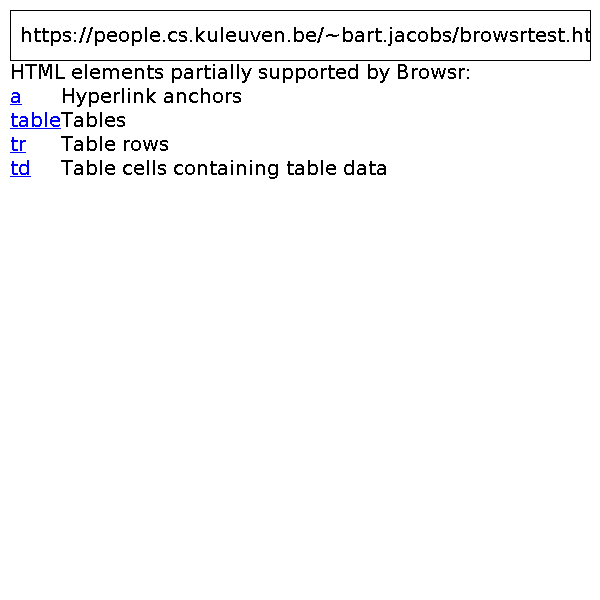
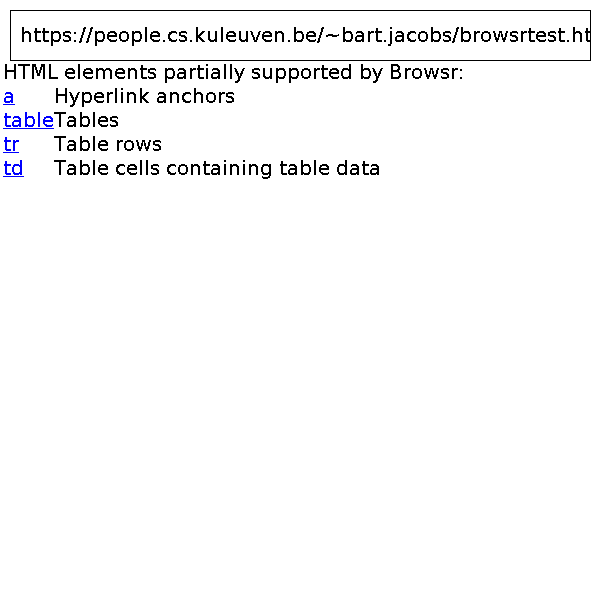
Removed extension from tableRow tableCell

Changed region(s): [[0.0, 0.09, 0.78, 0.3]]

diff --git a/src/GUIElements/TableCellGUI.java b/src/GUIElements/TableCellGUI.java
@@ -2,9 +2,13 @@ package GUIElements;
 
 import java.awt.Graphics;
 
-public class TableCellGUI extends GUIElement {
+public class TableCellGUI {
 
 	private GUIElement gui;
+	private int xPos;
+	private int yPos;
+	private int width;
+	private int height;
 	
 	/**
 	 * Constructor of the TableCellGUI class
@@ -15,14 +19,12 @@ public class TableCellGUI extends GUIElement {
      * @param h - height of this TableCell
 	 */
 	public TableCellGUI(GUIElement guiElement, int x, int y, int w, int h) {
-		super(x, y, w, h);
 		this.setGui(guiElement);
 	}
 
 	/**
 	 * Transmits the Graphics object to this.guiElement.
 	 */
-	@Override
 	public void paint(Graphics g, int xContainer, int yContainer) {
 		this.getGui().paint(g, xContainer, yContainer);
 	}
@@ -32,7 +34,6 @@ public class TableCellGUI extends GUIElement {
 	 * @param x - the x coordinate to check
 	 * @param y - the y coordinate to check
 	 */
-	@Override
 	public GUIElement getGUIAtPosition(int x, int y) {
 		return this.getGui().getGUIAtPosition(x-this.getX(), y - this.getY());
 	}
@@ -65,17 +66,119 @@ public class TableCellGUI extends GUIElement {
 	public int getGUIHeight() {
 		return this.getGui().getHeight();
 	}
-
-	@Override
-	public void handleKeyEvent(int keyCode, char keyChar, int modifiersEx) {
-	}
-
-	@Override
-	protected void handleUnselect() {
-	}
-
-	@Override
-	public void handleClick() {		
+	
+	/**
+	 * Sets the x and y position
+	 * @param x - the new value of this.x
+	 * @param y - the new value of this.x
+	 */
+	public void setPosition(int x, int y) {
+		if (x < 0 || y < 0) {
+			throw new IllegalArgumentException("The x position and y position of a GUIElement have to be positive.");
+		}
+		this.setX(x);
+		this.setY(y);
 	}
 	
+	/**
+	 * Sets the value xPos of this class.
+	 * 
+	 * @param x - new value of this.xPos
+	 */
+	public void setX(int x) {
+		if (x < 0) {
+			throw new IllegalArgumentException("The x position of a GUIElement has to be positive.");
+		}
+		this.xPos = x;
+	}
+	
+	/**
+	 * Returns the value xPos of this class
+	 * 
+	 * @return this.xPos
+	 */
+	public int getX() {
+		return this.xPos;
+	}
+	
+	/**
+	 * Returns the value of xPos + width of this class
+	 * 
+	 * @return this.xPos + this.width
+	 */
+	public int getEndX() {
+		return this.getX() + this.getWidth();
+	}	
+	
+	/**
+	 * Sets the value yPos of this class
+	 * 
+	 * @param y - new value of this.yPos
+	 */
+	public void setY(int y) {
+		if (y < 0) {
+			throw new IllegalArgumentException("The y position of a GUIElement has to be positive.");
+		}
+		this.yPos = y;
+	}
+
+	/**
+	 * Returns the value yPos of this class
+	 * 
+	 * @return this.yPos
+	 */
+	public int getY() {
+		return this.yPos;
+	}
+	
+	/**
+	 * Returns the value of xPos + height of this class
+	 * 
+	 * @return this.yPos + this.height
+	 */
+	public int getEndY() {
+		return this.getY() + this.getHeight();
+	}
+	
+	/**
+	 * Sets the value width of this class. If the new value is negative, set it to 0 instead.
+	 * 
+	 * @param width - new value of this.width
+	 */
+	public void setWidth(int width) {
+		if (width < 0) {
+			throw new IllegalArgumentException("The width of a GUIElement has to be positive.");
+		}
+		this.width = width;
+	}
+	
+	/**
+	 * Returns the value width of this class
+	 * 
+	 * @return this.width
+	 */
+	public int getWidth() {
+		return this.width;
+	}
+	
+	/**
+	 * Sets the value height of this class. If the new value is negative, set it to 0 instead.
+	 * 
+	 * @param height - new value of this.height
+	 */
+	public void setHeight(int height) {
+		if (height < 0) {
+			throw new IllegalArgumentException("The height of a GUIElement has to be positive.");
+		}
+		this.height = height;
+	}
+	
+	/**
+	 * Returns the value height of this class
+	 * 
+	 * @return this.height
+	 */
+	public int getHeight() {
+		return this.height;
+	}
 }

diff --git a/src/GUIElements/TableRowGUI.java b/src/GUIElements/TableRowGUI.java
@@ -3,8 +3,9 @@ package GUIElements;
 import java.awt.Graphics;
 import java.util.ArrayList;
 
-public class TableRowGUI extends GUIElement {
+public class TableRowGUI {
 
+	private int xPos, yPos;
 	
 	private ArrayList<TableCellGUI> tableCellList;
 	
@@ -16,15 +17,15 @@ public class TableRowGUI extends GUIElement {
 	 * @param w - width of the TableRowGUI
 	 * @param h - height of the TableRowGUI
 	 */
-	public TableRowGUI(ArrayList<TableCellGUI> cells, int x, int y, int w, int h) {
-		super(x, y, w, h);
+	public TableRowGUI(ArrayList<TableCellGUI> cells, int x, int y) {
+		this.setX(x);
+		this.setY(y);
 		this.setGuiElements(cells);
 	}
 
 	/**
 	 * Paint all the TableCellGUI while updating the relative x.
 	 */
-	@Override
 	public void paint(Graphics g, int xContainer, int yContainer) {
 		int relativeX = xContainer;
 		for(int i=0; i< this.getGuiElements().size();i++) {
@@ -47,7 +48,6 @@ public class TableRowGUI extends GUIElement {
 	 * 
 	 * @param height - new value of this.height
 	 */
-	@Override
 	public void setHeight(int height) {
 		if(this.getGuiElements()!=null) {
 			for(int i= 0; i<this.getGuiElements().size();i++) {
@@ -60,7 +60,6 @@ public class TableRowGUI extends GUIElement {
 	 * Returns the height of the tallest tableCell.
 	 * @return this.height
 	 */
-	@Override
 	public int getHeight(){
 		int maxHeight=0;
 		for(int i=0; i<this.getGuiElements().size();i++) {
@@ -76,7 +75,6 @@ public class TableRowGUI extends GUIElement {
 	 * Sum up all the widths of the row to calculate the width of the row.
 	 * @return this.width
 	 */
-	@Override
 	public int getWidth(){
 		int totalWidth=0;
 		for(int i=0; i<this.getGuiElements().size();i++) {
@@ -101,7 +99,6 @@ public class TableRowGUI extends GUIElement {
 	/**
 	 * Returns the GUI if the given position is between its bounds
 	 */
-	@Override
 	public GUIElement getGUIAtPosition(int x, int y) {
 		for(int i=0; i<this.getGuiElements().size();i++) {
 			GUIElement e =this.getGuiElements().get(i).getGUIAtPosition(x-this.getX(), y-this.getY());
@@ -112,6 +109,19 @@ public class TableRowGUI extends GUIElement {
 		return null;
 	}
 
+	/**
+	 * Sets the x and y position
+	 * @param x - the new value of this.x
+	 * @param y - the new value of this.x
+	 */
+	public void setPosition(int x, int y) {
+		if (x < 0 || y < 0) {
+			throw new IllegalArgumentException("The x position and y position of a GUIElement have to be positive.");
+		}
+		this.setX(x);
+		this.setY(y);
+	}
+	
 	/**
 	 * Returns the list of TableCells
 	 * @return this.tableCellList
@@ -131,15 +141,46 @@ public class TableRowGUI extends GUIElement {
 		this.tableCellList = cells;
 	}
 	
-	@Override
-	public void handleClick() {
+	/**
+	 * Sets the value xPos of this class.
+	 * 
+	 * @param x - new value of this.xPos
+	 */
+	public void setX(int x) {
+		if (x < 0) {
+			throw new IllegalArgumentException("The x position of a GUIElement has to be positive.");
+		}
+		this.xPos = x;
 	}
 	
-	@Override
-	public void handleKeyEvent(int keyCode, char keyChar, int modifier) {
+	/**
+	 * Returns the value xPos of this class
+	 * 
+	 * @return this.xPos
+	 */
+	public int getX() {
+		return this.xPos;
 	}
 	
-	@Override
-	public void handleUnselect() {
+	/**
+	 * Sets the value yPos of this class
+	 * 
+	 * @param y - new value of this.yPos
+	 */
+	public void setY(int y) {
+		if (y < 0) {
+			throw new IllegalArgumentException("The y position of a GUIElement has to be positive.");
+		}
+		this.yPos = y;
 	}
+
+	/**
+	 * Returns the value yPos of this class
+	 * 
+	 * @return this.yPos
+	 */
+	public int getY() {
+		return this.yPos;
+	}
+	
 }

diff --git a/src/GUIElements/TableGUI.java b/src/GUIElements/TableGUI.java
@@ -26,11 +26,6 @@ public class TableGUI extends GUIElement {
 		}
 		this.guiRows = guiElements;
 	}
-	
-
-	
-	
-	
 
 	@Override
 	public void paint(Graphics g, int xContainer, int yContainer) {
@@ -162,13 +157,7 @@ public class TableGUI extends GUIElement {
 	}
 
 
-	@Override
-	public void handleKeyEvent(int keyCode, char keyChar, int modifier) {
-	}
 	
-	@Override
-	public void handleUnselect() {
-	}
 	
 	/**
 	 * Returns the GUI if the given position is between its bounds
@@ -184,7 +173,14 @@ public class TableGUI extends GUIElement {
 		return null;
 	}
 
-
+	@Override
+	public void handleKeyEvent(int keyCode, char keyChar, int modifier) {
+	}
+	
+	@Override
+	public void handleUnselect() {
+	}
+	
 	@Override
 	public void handleClick() {		
 	}

diff --git a/src/htmlElement/HTMLTableRow.java b/src/htmlElement/HTMLTableRow.java
@@ -7,11 +7,6 @@ import GUIElements.TableRowGUI;
 
 public class HTMLTableRow {
 
-	/**
-	 * The distance between the guiElements in the row
-	 */
-	private static int XSPACE= 3;
-	
 	public HTMLTableRow() {
 		
 	}
@@ -68,9 +63,8 @@ public class HTMLTableRow {
 		ArrayList<TableCellGUI> cells = new ArrayList<TableCellGUI>();
 		for(int i=0; i<this.getRow().size();i++) {
 			TableCellGUI gui = this.getRow().get(i).transformToGUI(nextX, y, width, heigth);
-			//nextX+= gui.getWidth() ;//+ XSPACE;
 			cells.add(gui);
 		}
-		return new TableRowGUI(cells, x, y, width, heigth);
+		return new TableRowGUI(cells, x, y);
 	}
 }

diff --git a/test/GUIElements/TestTableGUI.java b/test/GUIElements/TestTableGUI.java
@@ -33,7 +33,7 @@ class TestTableGUI {
 		ArrayList<TableCellGUI> tableRow = new ArrayList<>();
 		tableRow.add(cell1);
 		tableRow.add(cell2);
-		TableRowGUI row = new TableRowGUI(tableRow, 0, 0, 0, 0);
+		TableRowGUI row = new TableRowGUI(tableRow, 0, 0);
 		ArrayList<TableRowGUI> tableRowList= new ArrayList<>();
 		TableGUI guiTable = new TableGUI(tableRowList, 0, 0, 0, 0);
 	}

diff --git a/src/converter/HTMLToGUI.java b/src/converter/HTMLToGUI.java
@@ -15,7 +15,7 @@ public class HTMLToGUI {
 	/**
 	 * The distance between the guiElements from the start x position
 	 */
-	private static int XSPACE= 10;
+	private static int XSPACE= 3;
 	
 	public static int getXSPACE() {
 		return XSPACE;
